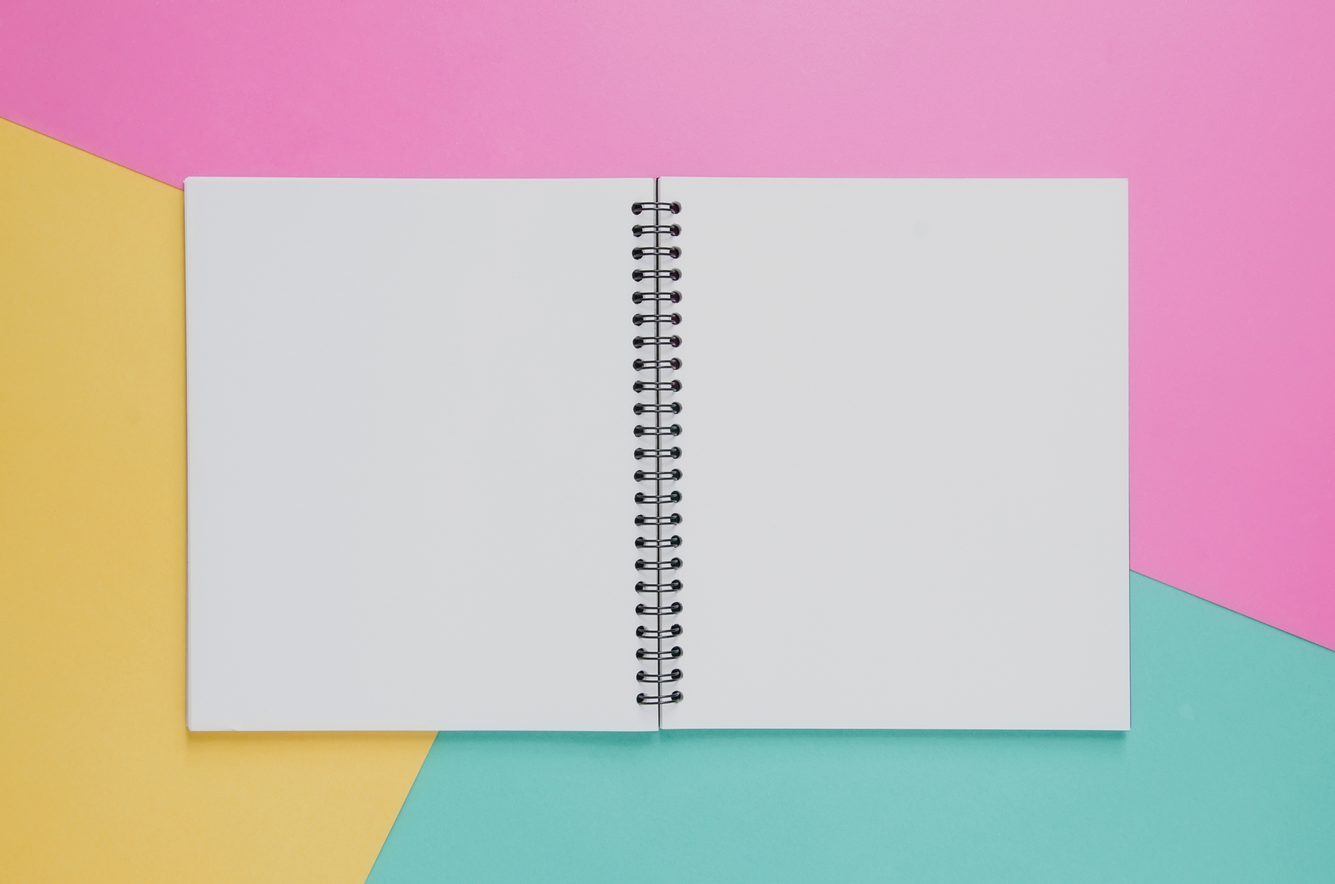
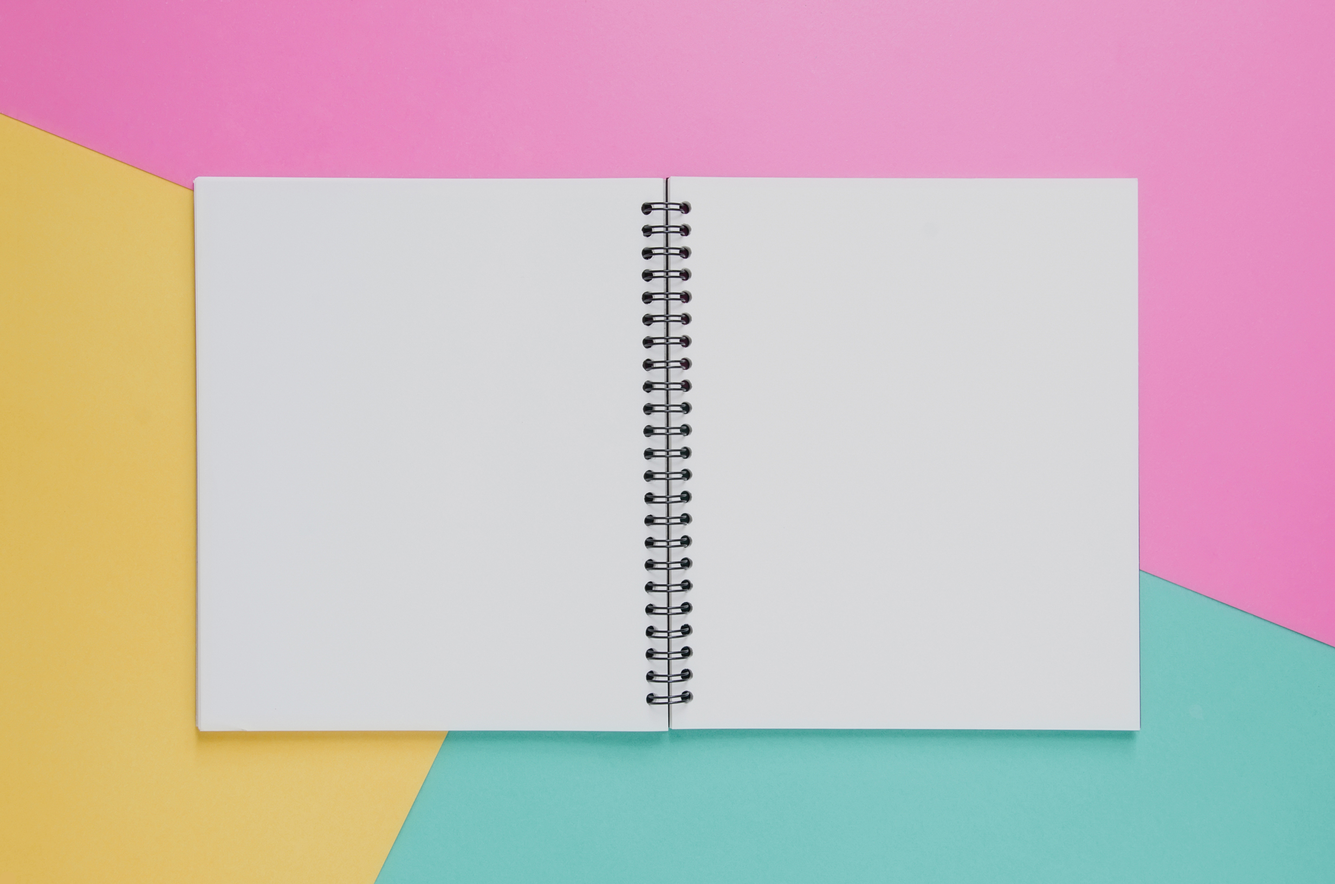
Edit HTML and Add initial CSS styling

diff --git a/styles.css b/styles.css
@@ -1,33 +1,153 @@
+/* font-family: 'Fredericka the Great', cursive; */
 
-
-/* Global Styling */
 * {
     margin: 0;
+    padding: 0;
+    box-sizing: border-box;
 }
 
-/* ------------ Main Container Styling - Background------------ */
-#backgroundBlur {
-    width: 100vw;
+/* FONTS */
+h1, h2, button {
+    font-family: 'Fredericka the Great', cursive;
+    font-weight: 400;
+}
+
+/* Background Image - Blur */
+body {
+    display: flex;
+    flex-direction: column;
+    justify-content: center;
+    align-items: center;
     height: 100vh;
-    position: absolute;
-    z-index: -1;
-}
-
-/* ------------ Main Container Styling - Background------------ */
-#mainContainer {
-    background-image: url(images/sketchBookMultiSmaller.jpg);
-    background-size: contain;
-    background-position: center;
+    background-image: url(./images/backgroundBlur.jpg);
     background-repeat: no-repeat;
-    height: 100vh;
+    background-size: cover;
 }
 
 
+/* Game Container Full */
+#onTopContainer {
+    border: 1px solid blue;
+    position: relative;
+    max-height: 100%;
+    max-width: 100%;
+
+}
+/* Game Image Background */
+.backgroundImg {
+    max-height: 100%;
+    max-width: 100%;
+}
+
+/* Title - Main */
+h1 {
+    font-size: 3rem;
+    border: 1px solid red;
+    position: absolute;
+    top: 5%;
+    left: 50%;
+    transform: translate(-50%);
+}
 
 
+/* Game Container for FlexBox */
+#flexGameContainer {
+    border: 1px solid black;
+    display: flex;
+    justify-content: center;
+    gap: 2rem;
+    position: absolute; 
+    top: 25%;
+    left: 50%;
+    transform: translate(-50%);
+}
 
-/* ------------ Main Container Styling ------------ */
-/* ------------ Main Container Styling ------------ */
-/* ------------ Main Container Styling ------------ */
-/* ------------ Main Container Styling ------------ */
-/* ------------ Main Container Styling ------------ */
+/* Game Controls Box */
+#controlBox {
+    border: 1px solid red;
+    height: 350px;
+    width: 350px;
+    display: flex;
+    flex-direction: column;
+    justify-content: space-between;
+    align-items: center;
+}
+
+/* Grid Container Display */
+#gridDisplayBox {
+    border: 1px solid purple;
+    height: 350px;
+    width: 350px;
+}
+
+/* Individual Control Boxes */
+.gridSizeBox, .colorPickerBox, .buttonsBox {
+    border: 1px solid blue;
+    text-align: center;
+    align-self: stretch;
+}
+.gridIconsAndSlider, .buttonsBox {
+    display: flex;
+    justify-content: space-around;
+    align-items: center;
+}
+
+/* Control Headings */
+h2 {
+    font-size: 1.3rem;
+    padding: .7rem 0;
+}
+
+/* Buttons Styling */
+.buttonsBox button {
+    background-color: #b8b8b8;
+    border: 1px solid #9b9b9b;
+    border-radius: 5px;
+    font-size: 1rem;
+    padding: .3rem 0;
+    width: 6rem;
+}
+
+
+/* Grid Icon Styling */
+.icons {
+    border: 1px solid purple;
+    width: 2.5rem;
+}
+#largeHash {
+    padding-left: .8rem;
+}
+#smallHash {
+    padding-right: .8rem;
+}
+
+/* Slider Styling */
+#gridSlider {
+    appearance: none;
+    width: 70%;
+    height: 15px;
+    margin: 0 auto;
+    border-radius: 5px;  
+    background: #b8b8b8;
+    outline: none;
+    -webkit-transition: .2s;
+    transition: opacity .2s;
+}
+#gridSlider::-webkit-slider-thumb {
+    appearance: none;
+    width: 16px;
+    height: 28px;
+    border-radius: 5px; 
+    background: #9b9b9b;
+    cursor: pointer;
+    box-shadow: 1px 1px 2px #3b3b3b;
+    border: 2px solid #c9c9c9;
+}
+#gridSlider::-moz-range-thumb {
+    width: 25px;
+    height: 25px;
+    border-radius: 50%;
+    background: #b8b8b8;
+    cursor: pointer;
+}
+

diff --git a/index.html b/index.html
@@ -6,38 +6,43 @@
     <meta name="viewport" content="width=device-width, initial-scale=1.0">
     <title>Drag - A - Doodle</title>
     <link rel="stylesheet" href="./styles.css">
+    <link rel="preconnect" href="https://fonts.googleapis.com">
+<link rel="preconnect" href="https://fonts.gstatic.com" crossorigin>
+<link href="https://fonts.googleapis.com/css2?family=Fredericka+the+Great&display=swap" rel="stylesheet">
 </head>
 <body>
-    <img id="backgroundBlur" src="./images/backgroundBlur.jpg" alt="Blurred background image of colours">
-    <div id="mainContainer"> <!-- Background Image Container -->
+    
 
+    <div id="onTopContainer">
+        <img class="backgroundImg" src="./images/sketchBookMulti2.jpg" alt="Top down image of notebook on colourful background">
         <h1>Drag - A - Doodle</h1>
-    
-        <div id="controlsContainer"> <!-- Container to hold control panel -->
-    
-            <div> <!-- Grid size container -->
-                <h3>Grid Size:</h3>
-                <img src="./images/hashLargeIcon.png" alt="Small grid icon">
-                <input type="range" name="gridSlider" id="gridSlider">
-                <img src="./images/hashSmallIcon.png" alt="Large grid icon">
+
+        <div id="flexGameContainer">
+            <div id="controlBox">
+                <div class="gridSizeBox">
+                    <h2>Grid Size:</h2>
+                    <div class="gridIconsAndSlider">
+                        <img class="icons" id="largeHash" src="./images/hashLargeIcon.png" alt="Large grid size">
+                        <input type="range" name="slider" id="gridSlider">
+                        <img class="icons" id="smallHash" src="./images/hashSmallIcon.png" alt="Small grid size"> 
+                    </div>
+                </div>
+                <div class="colorPickerBox">
+                    <h2>Colour Picker</h2>
+                    <div>Placeholder</div>
+                </div>
+                <div class="buttonsBox">
+                    <button id="resetBtn">Reset</button>
+                    <button id="eraserBtn">Eraser</button>
+                </div>
             </div>
-    
-            <div> <!-- Colour picker container -->
-                <h3>Colour Picker:</h3>
-                <div class="colorBox"></div>
-            </div>
+            <div id="gridDisplayBox">
                 
-            <div> <!-- Button container -->
-                <button id="resetBtn" class="buttons">Reset</button>
-                <button id="eraseBtn" class="buttons">Eraser</button>
             </div>
         </div>
-    
-        <div id="gridContainer"> <!-- Grid Container -->
-    
-        </div>
-    
+
     </div>
+
 
     <script src="./script.js"></script>
 </body>
